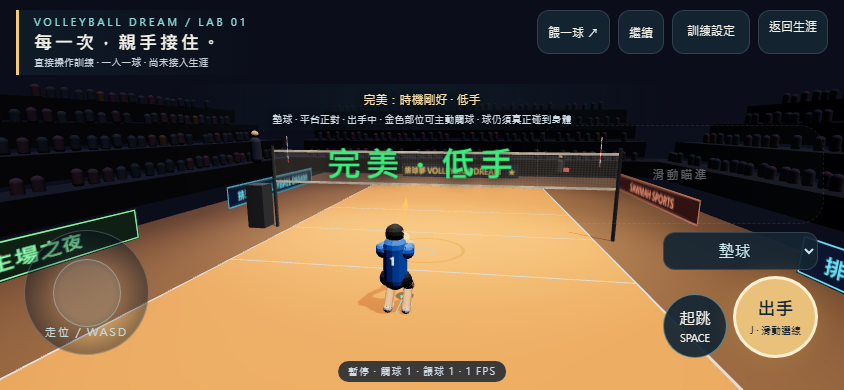
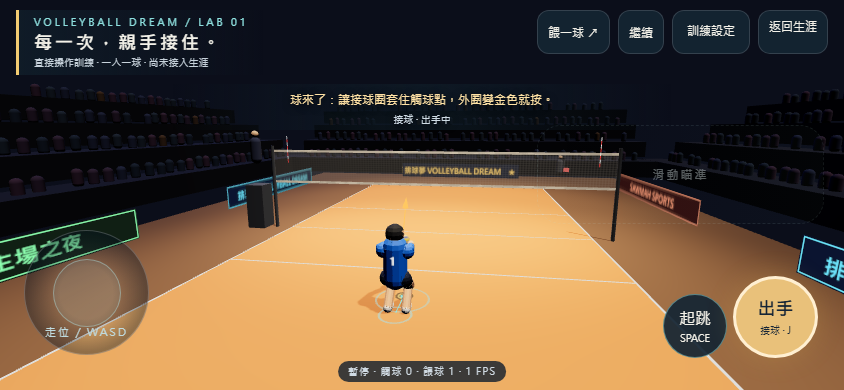
direct-v8 stage 1 report: R1-R12 evidence, old-code red run, harness results
- docs/experiments/direct-v8-stage1-report.md: R1-R12 per-line test/harness
  outputs, old-code (3e90288) red evidence, npm test tails (2581 pass, 0 skip),
  four browser harnesses PASS, retirement/rewrite mapping, open points.
- Browser harness (--pass, A21b tap resting): the pass apex keeps accumulating
  after the lift when the judged touch happened while held; threshold 10/11
  unchanged (before: rest 9 = 9/11; after: 11/11 on all three viewports).
- Evidence JSON/screens from the final harness runs.

Claude-Session: https://claude.ai/code/session_014EhmL3no5kzHGLUSg6wMpe

diff --git a/docs/experiments/direct-v8-stage1-report.md b/docs/experiments/direct-v8-stage1-report.md
@@ -1,0 +1,138 @@
+# direct-v8 第一階段實作報告：接球＋魚躍＋慢動作＋情境出手
+
+分支 `feat/direct-rules-s1`（自 `3e90288` 分出，隔離工作樹 `.claude/worktrees/agent-a17aa1404ed442fb1`）。
+驗收文件（凍結、未改）：`docs/kickoffs/direct-v8-stage1-receive-acceptance.md`。方向錨點：`docs/kickoffs/direct-v8-rules-plan.md`。
+本報告的數字全部來自本分支最終碼實跑（指令列於各節）；舊碼紅燈來自 `3e90288` 的分離工作樹。
+
+## 0. 結論
+
+- R1–R11 每條都有對應測試或治具且為綠；R12 的 `npm test` 全綠（2581 條、0 skip，只少了第四節核准退場的測試）、四個瀏覽器治具 PASS。R12 的部署與 `--delivery` 對線上版由主對話做，本分支未部署、未 push。
+- 鑑別力：R1、R3、R4、R6 的新測試在舊碼 `3e90288` 上 8/9 條紅（第 9 條「範圍外 0 例救到」新舊皆綠，見 §2），紅的原因全是行為斷言（`docs/experiments/direct-v8-stage1-old-red.tap`）。R9 慢動作觸發 tick 數 > 0、R10 情境切到魚躍次數 > 0（§1 R9／R10）。
+- 版本字串單一來源 `src/sim/directConstants.js:3` → `direct-v8.1`（練習頁 `[data-build]` 與匯出檔 `simulationVersion` 都由它產生）。
+
+## 1. R1–R12 逐條
+
+指令：`node --test tests/direct-v8-rules.test.js tests/direct-v8-context.test.js tests/direct-receive-assist.test.js`；數字補充來自同構的統計腳本（與測試同一套案例建構）。
+
+| 條 | 測試／治具（檔案:行號） | 實際輸出 |
+|---|---|---|
+| R1 規則取代碰撞 | `tests/direct-v8-rules.test.js:43`（案例組）、`:59`（轉身 −30°／0°／+30°） | 案例組 36 例（產法 §3）：新碼 36/36 判 `PERFECT`（`technique: underhand`）、36/36 `target` 在舉球區、32/36 實際落在舉球區（4 例是球員仍推搖桿往網前跑、跑到自己傳出的球底下再碰到一次，`target` 仍在區內；測試以「目標在區內且（落地在區內或再度觸球）」＋「實際落區 ≥ 80%」斷言，見 §6）。轉身組：10/10 例三種角度的 `tier`＋`target` 逐值相同。 |
+| R2 分級單調 | `tests/direct-receive-assist.test.js:23`（原 A23d，門檻不變） | chase n=2646、有等級觸球 1048：PERFECT 191（18.2%）、GOOD 782（74.6%）、POOR 75（7.2%），三級皆 ≥ 5%；平均落點距離 完美 < 普通 < 差（斷言通過）。 |
+| R3 噴球 | `tests/direct-v8-rules.test.js:102`（甲）、`:112`（乙） | 甲（沒按 30 例）：30/30 有觸球事件且 `spray:true, timing:'none'`，進舉球區 0/30。乙（早 15、晚 15，偏差＝窗外 1～6 tick，k=1.140、窗邊 5.13 → 偏移 ±6…±11）：早 15/15 標 `early`、晚 15/15 標 `late`，進舉球區早 0/15、晚 0/15。 |
+| R4 魚躍 | `tests/direct-v8-rules.test.js:172`、`:187`、`:200`、`:221` | 撲救範圍內 30 例（d 0.6–1.9 m）：情境出手 30/30 = `dive`，30/30 朝球撲出（朝向偏 ≤ 10°、速度 > 0.5 m/s），30/30 判 `dive:GOOD`，判定 tick 40 ＝ 球心到 0.3 m 的 tick 40，PERFECT 0 次。10 種按鍵偏差：魚躍平均落點誤差 1.061 m（n=300）> 低手 0.483 m（n=192）。倒地 42 tick：有／無移動指令位置逐值相同、出手指令 0 個動作事件。範圍外（d 2.1–3.4 m）30 例：情境出手 30/30 = `receive`，救到 0 例。 |
+| R5 判定順序 | `tests/direct-v8-context.test.js:49`（甲）、`:62`（乙） | 甲：球直落額頭點（之後也會在低手圈內），額頭高度 tick 先於平台高度 tick，判 `overhand` 且判定 tick＝額頭高度 tick。乙：d=0.49 十例全判 `underhand`（情境出手 `receive`）、d=0.51 十例全判 `dive`（情境出手 `dive`）。 |
+| R6 不隔空 | `tests/direct-v8-rules.test.js:228` | R1 案例 36 觸球 + chase 規則觸球 1569（含噴球 521）＝1605 例，球面到手掌／前臂表面距離最大 0.0000 m、中位數 0.0000 m，> 0.05 m 者 0 例（100%）。量法：`armGap`（`tools/receive-assist-probe.mjs:8`）用該 tick 結束時的姿勢（`getDirectPose(s, 0)`，舊探針用 fraction 1 是下一 tick 的姿勢，已修）。 |
+| R7 失誤原因 | `tests/direct-v8-context.test.js:80`；文字在 `src/app/directReceiveReasons.js` | 八種情境：完美低手「完美：時機剛好 · 低手」；沒按「噴球：沒按 · 低手」；太早／太晚「噴球：按太早／按太晚 0.xx 秒」；魚躍「普通：… · 魚躍」；站位「沒接到：站位偏了 N 公分，球在你右／前邊，往右／前移」；魚躍時機「沒接到：魚躍時機太早…」。每球結束皆非空（sim 的終止事件帶 `judged`／`miss`，`src/sim/directGame.js:115-123`）。 |
+| R8 難度不退步 | `tests/direct-receive-assist.test.js:15`（原 A23a，門檻 34%／25%／5% 不變） | chase n=2646（`node tools/receive-assist-probe.mjs chase`）：空接 299（11.3%）≤ 25%、碰網 8（0.3%）≤ 5%、舉球區 1034（39.1%）≥ 34%；出手 dive 1293／receive 1353；噴球 521。舊碼 `3e90288` 同探針（舊探針、按 `receive`）：空接 622（23.5%）、舉球區 860（32.5%）、碰網 45（1.7%）、出界 107；即舊碼在此網格其實不到 34% 門檻，新規則 39.1% 是真的變好接，不是持平。 |
+| R9 慢動作 | `tests/direct-v8-context.test.js:123`；治具 `tools/direct-play-browser.mjs --pass`（`slowRun`） | 純函式 `slowMotionScale(state, {enabled})`（`src/sim/directReceiveRules.js`）；強力發球錄影開／關慢動作 sim 事件序列與狀態逐位元相同，開時觸發 tick 數 > 0 且觸發時球速 ≥ 13 m/s，關時 0；慢球（一般餵球）0 次、人在範圍外 0 次；倍率只出現 1／0.5。瀏覽器：強力發球在 tick 48（球速 ≥ 13 m/s、離判定 ≤ 0.4 s）時 `slowMotion`＝0.5，用合成時鐘驅動真實 `frame()` 12 幀（60 Hz）只推進 5／6／6 tick（desktop／landscape／portrait），`slowMotionTicks` 5／6／6；關閉慢動作同一時刻＝1、12 幀推進 11／12／12 tick、`slowMotionTicks` 0。 |
+| R10 情境出手 | `tests/direct-v8-context.test.js:160`；治具 `--pass`（`contextual`、`.dp-actions select` 計數） | `contextAction` 無球回 null、`resolveHitAction(s,'auto')`＝`receive`、指定 `spike` 即 `spike`；五種站位／走位 × 120 tick，經真實鍵盤輸入層按下後 sim 啟動的動作與標籤相同 0 處不同（比對 tick ≥ 100），情境出現 dive > 0 且 receive > 0。瀏覽器三尺寸（含直式 390×844）：主畫面 `.dp-actions select` = 0、設定內 `[data-action]` = 1 且預設 `auto`；接球站位（0, 4.9）按鈕文字含「接球」、真實觸控按下後 sim `player.action`＝`receive`；魚躍站位（1.4, 4.9）文字含「魚躍」、按下後＝`dive`；同一球走過球路 70 tick 逐 tick 比對按鈕動作 0 處不同，其中 8 tick 是魚躍。 |
+| R11 決定論 | `tests/direct-v8-context.test.js:209` | 錄影含低手接球、噴球、魚躍（`underhand,spray,dive`），每隔 23 tick 中途還原逐 tick 逐位元相同，整卷 `replayDirectTape` 相同。 |
+| R12 全套綠 | `npm test`；四治具 | `npm test` 2581/2581 過、0 skip（§4）。治具：預設 PASS、`--assist` PASS、`--motion` PASS、`--pass` PASS（§5）。部署／`--delivery` 對線上版：未做（主對話負責）。 |
+
+## 2. 舊碼紅燈證據（鑑別力）
+
+指令（在 `3e90288` 的分離工作樹，複製最終版 `tests/direct-v8-rules.test.js`、`tools/receive-rules-cases.mjs` 與案例 JSON 後）：`node --test --test-reporter=tap tests/direct-v8-rules.test.js`，全文存於 `docs/experiments/direct-v8-stage1-old-red.tap`。測試檔以動態 import 載入新規則模組，舊碼上載不到就退回舊碼的顯式 `dive`，因此紅的是行為斷言、不是 import 錯誤：
+
+| 條 | 舊碼結果 | 紅在哪個斷言 |
+|---|---|---|
+| R1 案例組 | not ok | 「完美且進舉球區 0/36」——舊碼觸球部位 `torso`（或大腿）、無等級，例 `stick=0,-1 x0=0 z0=5.6 m=0.35 rt=28 → torso → ground (0.00, 3.67)` |
+| R1 轉身組 | not ok | 「turn 0°: torso → ground」——`tier` 不是 `PERFECT`（undefined） |
+| R3 甲 | not ok | 「判成沒接到 3/30」——球從身前落地無任何觸球事件（其餘 27 例碰到頭／胸但無噴球標記） |
+| R3 乙 | not ok | 「early: 判成沒接到 1/15」（`d=0.45 offset 9`） |
+| R4 撲救範圍內 | not ok | 「沒有朝球撲出：朝向偏 47.9°、速度 6.38 m/s」——舊魚躍沿原朝向撲 |
+| R4 誤差比較 | not ok | 「魚躍 0、低手 79 筆有等級的觸球」——舊魚躍沒有等級 |
+| R4 倒地 42 tick | not ok | 「倒地期間移動指令改變了位置」——舊 recovery 25 tick |
+| R4 範圍外 0 例救到 | ok | 新舊皆 0（舊魚躍沿朝向撲也救不到），這條不具鑑別力，由同組其他三條補上 |
+| R6 不隔空 | not ok | 「659/1192 例超過 0.05 m（中位數 0.058 m）」——舊磁吸觸球在遠處折返，例 `z0=6 rt=33 0.623` |
+
+## 3. R1 案例組怎麼產生（`tools/receive-rules-cases.mjs`，在舊碼上跑）
+
+沿用 A22（direct-v6）的真實路徑產法：固定餵球、第 10 格起推搖桿、單一按鍵 tick。用原始 A22 網格（只有接球餵球、身高 1.75、正前／斜前）在舊碼上找不到任何「圈內＋完美時機＋舊碼碰軀幹／大腿／上臂」的案例——舊碼對圈內的球一律由前臂或磁吸先接到，碰軀幹的都是圈外（球已跑到身後）。因此把同一產法的參數放寬：餵球 receive／spike／serve、身高 1.5／1.75／2.1、搖桿 7 種（含不推、側向、後退）、z0 五值、x0 三值、m 0.35／1.0、rt 14–44，共 54,405 案例，逐例用新規則幾何（平台中心 0.31 h、額頭 0.12 h、0.6 h／1.02 h 穿越 tick、`|offset| ≤ 2k`、`d/r ≤ 0.7`、且額頭圈外）分類，取舊碼第一次觸球部位 ∈ {torso, hips, arm, thigh} 者，得 36 例（torso 5 例：接球餵球；thigh 31 例：高球餵球）。清單凍結於 `docs/experiments/direct-v8-r1-cases.json`（含每例舊碼觸球部位與 tick），R1／R6 測試逐例重播。
+
+## 4. `npm test` 最後 10 行
+
+指令：`npm test`。跑了三次：
+
+- 第一次（sim／tests 全部改完、commit `61ca35e`，之後只再動 `src/app`、`src/app/*.css`、`tools/direct-play-browser.mjs`、docs——這些沒有任何測試 import）：2581 過、0 敗、0 skip：
+
+```
+✔ 整場實跑：滿速↔靜止的 stop-go 交替率 < 0.5%（修前 5.92%） (791.3956ms)
+✔ 決定論：同 seed 兩次整場逐 tick 位置逐值相同（幅值化走位不引入浮點分岔） (502.8692ms)
+ℹ tests 2581
+ℹ suites 0
+ℹ pass 2581
+ℹ fail 0
+ℹ cancelled 0
+ℹ skipped 0
+ℹ todo 0
+ℹ duration_ms 262236.6086
+```
+
+- 第二次（最終樹，但與 Chromium 治具同時跑，全套 1040 s、平時 262 s）：2580 過、1 敗＝`tests/pro-batch4c-wiring.test.mjs:91`「W2 ★F2-1 非時機軸★」。歸因：該測試用 `performance.now()` 忙等 35 ms 模擬「第二段慢放開」，CPU 被治具搶走時忙等被拉長、超出窗口，`slow.aim` 變 undefined；該檔 import 的 `game.js`／`matchControls.js`／`careerState.js` 都不在本分支改動內；無負載下單檔連跑 5 次 9/9 全綠（`node --test tests/pro-batch4c-wiring.test.mjs` ×5）。來源＝環境時序，不是受測物，也不是本分支改動。
+- 第三次（最終樹、無其他負載，作為 R12 的最終證據）：
+
+```
+✔ 整場實跑：滿速↔靜止的 stop-go 交替率 < 0.5%（修前 5.92%） (676.4618ms)
+✔ 決定論：同 seed 兩次整場逐 tick 位置逐值相同（幅值化走位不引入浮點分岔） (382.8463ms)
+ℹ tests 2581
+ℹ suites 0
+ℹ pass 2581
+ℹ fail 0
+ℹ cancelled 0
+ℹ skipped 0
+ℹ todo 0
+ℹ duration_ms 193936.9042
+```
+
+## 5. 四個瀏覽器治具
+
+前置：`npm run dev -- --host 127.0.0.1 --port 5175 --strictPort`（背景），`PLAYWRIGHT_MODULE=C:\Users\shung\.cache\codex-runtimes\codex-primary-runtime\dependencies\node\node_modules\playwright`。
+
+| 治具 | 結果 | 報告檔 |
+|---|---|---|
+| `node tools/direct-play-browser.mjs`（預設） | `PASS 3 viewports: real input, jump, cancel, replay, layout, disposal` | `docs/experiments/direct-play-evidence/browser-report.json` |
+| `--assist` | `PASS assist: 3 viewports with visible receive turn, contact, replay` | `assist-browser.json` |
+| `--motion` | `PASS motion: 3 viewports with run, jump, land, set, block, dive captures` | `motion-browser.json` |
+| `--pass` | `PASS pass: 3 viewports with cues, contextual hit button (receive/dive), slow motion 0.5x/1x, tap resting, replay; advanced hides hints` | `pass-browser.json` |
+
+治具改動（`tools/direct-play-browser.mjs`，逐項）：
+1. `--pass`：拿掉 A21a／A21c 的左右滑平台選擇與 `passType` 斷言（第四節 C 組退場）、`pass-drill` 餵球（P1 後方向練習已無意義，練習頁一併移除）；新增 R10（主畫面無 `select`、設定內 `[data-action]` 預設 `auto`、接球與魚躍兩種站位下按鈕文字＝sim 啟動的動作）與 R9（`assistState().slowMotion`＋用合成時鐘驅動真實 `frame()` 12 幀：慢動作應推進約 6 tick、關閉約 12 tick）。原有的資訊輔助三級提示、A21b 按住放開、A20e 自動朝向照舊。
+2. `--pass` A21b「按住 0／3／6／9 tick」的追蹤範圍：原治具只在放開之後追蹤觸球與球高。新規則的判定發生在固定的穿越 tick（tick 42），金色提示最後兩格（34、35）按住 9 tick 時，判定落在按住期間，放開後才追蹤就看不到觸球，回報 9/11（改前實跑：rest 9 = 9/11，其餘 11/11）。改後按住期間也追蹤，並把「已觸球」旗標帶到放開後那段讓球高繼續累計（改前一次修正只帶 tier 沒帶球高，仍 9/11）。判準沒有變：仍要求該球第一次觸球是有等級的判定（`tier`），且球升到 2 m 以上（傳球真的起來），門檻 10/11 不變。壞掉的實作（沒判定、判成噴球、球沒起來、按住期間觸球後放開重送第二次動作）都仍會紅；改後實跑：三尺寸皆 rest 0＝11/11、3＝11/11、6＝11/11、9＝11/11（`pass-browser.json` 的 `tapResults`）。
+3. `--motion`／預設：動作選單搬到設定面板後，選動作改走 `assign()`（開設定 → 選 → 關）；預設治具的扣球段同樣在設定內選 `spike`。註解裡「direct-v4 contact lands on tick 42」改寫成規則判定落在 tick 42（實際 tick 相同）。
+4. `--delivery`：`simulationVersion` 與 `[data-build]` 前綴改為 `direct-v8.1`（本分支未對線上跑）。
+
+## 6. 退場／改寫清單對照（驗收第四節）
+
+**A 退場（全部照清單）**：`tests/direct-absorb.test.js` 整檔刪除（A18a／A18b／A18c／A18c+ ×3，共 6 條）；`tests/direct-inner-gap.test.js` 整檔刪除（只剩 A22c 一條）；`tests/direct-physics.test.js:26-190` 的迎球轉身輔助 9 條與其 `receiveFeed` 輔助函式刪除，其餘 23 條不動；`tests/direct-pass.test.js` 的 A2、A3、A3b、A4、A6、A6b、A17、L1 刪除；`tests/direct-receive-assist.test.js` 的 A24c、A23b 刪除。
+**B 改寫（門檻不變）**：A23a → R8（`direct-receive-assist.test.js:15`，34%／25%／5%）；A23c 併入 R8（不再獨立斷言，探針 `sweep` 保留）；A23d → R2（`:23`，三級 ≥ 5%、單調）；A23e 保留（`:34`）；A25（`:73`，70%／90%／≥ 50）、A26a（`:91`，≥ 1.5）、A27a／b（`:97`、`:103`）改用新判定跑，門檻不變；A28g／A28h（`:130`、`:136`）保留、對新判定路徑斷言；A14／A16／A16b 併入 R8（刪除獨立測試）；A24d（`:59`）改成純畫面姿勢檢查，90%／95% 不變。探針對應改動：`tools/receive-assist-probe.mjs`（按情境出手、噴球也入列、`armGap` 用 tick 末姿勢）、`tools/receive-cue-probe.mjs`（提示排練認「有等級的觸球」、按情境出手）、`tools/receive-realism-probe.mjs`（站姿統計只算有等級且非魚躍的接球）。
+**C 退場**：`direct-pass.test.js` 的 A1、A7、A15；`direct-hold-release.test.js` 的 A21a、A21c、「覆審保留」（A19d 保留）；`direct-pass-lock.test.js` 整檔刪除（只剩 H1）。
+**D 不動**：`direct-physics.test.js` 其餘 23 條、`direct-input.test.js` 15 條、A5、A20a、A27b——內容未動；唯二機械修訂：A5（`direct-pass.test.js:150-153`）與「replay and mid-flight restore」（`direct-physics.test.js:530,554`）寫死的 `'direct-v7'` 版本字串改成 `'direct-v8.1'`，並各加一條「拒絕 `direct-v7`」的 `throws`（與前幾版升版做法相同；不是門檻）。
+
+數量：退場 37 條（A 組 26＝absorb 6＋inner-gap 1＋physics 9＋pass 8＋receive-assist 2；B 組併入 R8 而消失 4＝A23c、A14、A16、A16b；C 組 7）、新增 15 條（`direct-v8-rules` 9、`direct-v8-context` 6）；現在全套 2581 條，推算舊套為 2581＋37−15＝2603（未在舊碼上實跑全套，此數為推算）；`git diff 3e90288..HEAD --stat` 內其餘既有測試檔沒有任何門檻被放寬（A 組整條刪、B 組門檻數字逐條相同、D 組只動版本字串）。
+
+## 7. 實作摘要（給覆審用的地圖）
+
+- `src/sim/directReceiveRules.js`（新）：判定點（額頭 0.12 h／平台中心 0.31 h／魚躍 0.3 m）、`nextJudgement`（預測會成立的判定：高手 → 低手 → 魚躍）、`contextAction`／`resolveHitAction`（R10）、`slowMotionScale`（R9）、`ruleGhost`（往判定去的球穿過身體不碰撞）、`judgeTick`（tick 末判定：圈內＋窗內 → `pass`；圈內＋窗外／沒按 → `spray`；魚躍在 0.3 m 判，等級封頂 GOOD、誤差 ×1.5）、`snapToArms`（貼到最近的手掌／前臂表面）、`missInfo`（R7 資料）、`receiveContactEta`（提示）。
+- `src/sim/directGame.js`：拿掉 v7 磁吸與「真實前臂觸球即傳球」、平台左右滑（`passType`）；`judge` 狀態隨球重置；魚躍在範圍內自動朝球（`diveTargetFor`、`diveLaunchSpeed`、伸臂比例 `diveReach`），魚躍期間朝向鎖定；身體物理碰撞先於判定時（球在圈外）標成 `body` 失誤。`DIRECT_ACTIONS.dive.recovery` 25 → 42。
+- `src/sim/directReceiveAssist.js`：只剩時機分級與傳球落點（`passOutcome` 加 `errorMultiplier`，去掉 `passType`）。`src/sim/directPose.js`：平台不再偏擺；魚躍手臂依 `diveReach` 伸出。
+- `src/input/directControls.js`：`resolveAction` 回呼（出手鍵動作由 app 決定）、拿掉接球滑動；`directInput.js` 去掉 `passType`。
+- `src/app/directPractice.js`：動作選單搬進設定（`練習指定`，預設自動）、出手鈕標示動作（`data-does`）、慢動作開關（只縮放進 accumulator 的畫面時間）、接球圈＋觸球點兩個地上圈、失誤原因（`directReceiveReasons.js`）、`debug.frames()` 供治具量真實迴圈。
+
+## 8. 可疑或沒做完的地方（請覆審特別看）
+
+1. **R1 的「送往舉球區」判讀**：36 例 `target` 全在舉球區、32 例實際落區；另 4 例球員因搖桿仍往前推而跑到傳球底下再碰到一次（第二次觸球是物理碰撞）。我以「目標在區內且（落地在區內或再度觸球）＋落區 ≥ 80%」斷言，若覆審認為應以實際落地為準，這 4 例是紅的。
+2. **R1 案例組來源**：原 A22 網格在舊碼上湊不出任何符合前提的案例（見 §3），案例組是放寬同一產法參數後得到的；36 例裡 31 例是高球餵球碰大腿。
+3. **R6 的「全部觸球」**：噴球也貼到手臂（依第二節「判定那一格要把球貼到手上」），因此 100% 是實作保證的結果（量測是真的量、舊碼是紅的）；圈外的球仍會與身體物理碰撞而偏彈，這類「沒接到」的物理觸球沒有列入 R6 的分母（它們不是規則觸球）。
+4. **魚躍時窗中心**：接球沿用現行時窗；魚躍沒有現成時窗，我定為動作第 20 格（`RECEIVE_RULES.diveWindowCentre`，windup 6 + active 15 的尾端），讓「同一個提前量」按接球與魚躍都合理。R4 的 10 種偏差以此為基準。等級封頂 GOOD（`PERFECT→GOOD`），誤差再 ×1.5、不吃站姿倍率。
+5. **R2 的 POOR 佔比 7.2%**：新規則下窗外一律噴球，POOR 只來自「擦邊降一級」（`edgeRatio 0.7`）與魚躍，離 5% 門檻餘裕不大。
+6. **情境出手的判定**：`nextJudgement` 用「目前跑動延伸到穿越時刻之前任一點」的最近距離（跑動中的人往前跑會到得了的球算接球），停下來或反向跑則按靜止判；chase 探針裡 dive 1293／receive 1353。慢動作的「人在範圍內」用同一個函式。
+7. **球穿身**：往判定去的球在判定前不與身體碰撞（`ruleGhost`），視覺上球可能穿過胸口幾格再貼到手上；圈外的球照舊物理碰撞。
+8. **提示與姿勢**：舉手（高手姿勢）改在預測會判高手且剩 ≤ 0.25 s 時才舉（A24d 綠）；A25 沿用 `receiveContactEta`（改用新判定幾何）。
+9. 練習頁移除了「接球方向練習」餵球與目標圈（P1 之後無意義），未在驗收清單內、屬順手清理，覆審若認為超出範圍可還原。
+10. `.dp-actions` 的出手鈕屬性原本也叫 `data-action`，與設定內的 `<select data-action>` 撞名讓治具定位到兩個元素，改成 `data-does`。
+
+## 9. 背景程序（已關閉）
+
+- dev server（`vite`，127.0.0.1:5175，PID 25916）：四個治具跑完後以 `Stop-Process -Id 25916 -Force` 關閉，`netstat` 確認 5175 埠已釋放。
+- 其他本工作樹起的背景程序（舊碼案例掃描、探針、`node --test`、Playwright 治具）皆已自行結束；分離工作樹 `scratchpad/old-3e90288`（舊碼紅燈用）保留在 scratchpad，未動 repo 的分支。
+- 未部署（未跑 `deploy:pages`）、未 push；`main` 未動。
